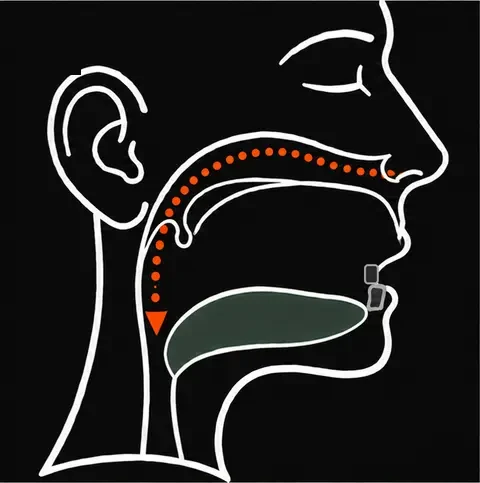
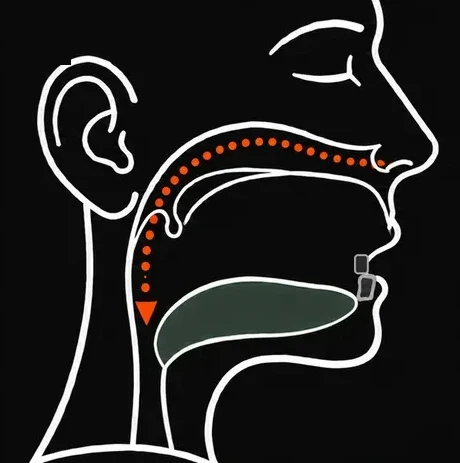
Trim edge lines from airway drawings
Claude-Session: https://claude.ai/code/session_01Hr1Vhy7JFwF6pmfEZcUMyD

Changed region(s): [[0.0, 0.0, 1.0, 1.0], [0.9739, 0.0, 1.0, 0.0302]]

diff --git a/site/index.html b/site/index.html
@@ -257,9 +257,9 @@ footer p{max-width:60em}
 
     <div class="moves">
       <figure><div class="pic" style="background:#101216"><img src="img/hinge.webp" width="411" height="440" loading="lazy" alt="Line drawing of a bearded man in his fifties hinging at the hips with dumbbells, back flat."></div><figcaption>Dumbbell deadlift, braced</figcaption></figure>
-      <figure><div class="pic" style="background:#0C0C0C"><img src="img/tongue.webp" width="480" height="483" loading="lazy" alt="Side-view drawing of the mouth and throat with the tongue pressed to the roof of the mouth."></div><figcaption>Tongue press</figcaption></figure>
+      <figure><div class="pic" style="background:#0C0C0C"><img src="img/tongue.webp" width="460" height="463" loading="lazy" alt="Side-view drawing of the mouth and throat with the tongue pressed to the roof of the mouth."></div><figcaption>Tongue press</figcaption></figure>
       <figure><div class="pic" style="background:#111317"><img src="img/row.webp" width="432" height="440" loading="lazy" alt="Line drawing of the same man doing a one-arm dumbbell row with a hand and knee on a bench."></div><figcaption>One-arm row, chin tucked</figcaption></figure>
-      <figure><div class="pic" style="background:#0A0A0A"><img src="img/breath.webp" width="480" height="483" loading="lazy" alt="Side-view drawing of the airway with a dotted arrow showing air moving through the nose and down the throat."></div><figcaption>Breathing work</figcaption></figure>
+      <figure><div class="pic" style="background:#0A0A0A"><img src="img/breath.webp" width="460" height="463" loading="lazy" alt="Side-view drawing of the airway with a dotted arrow showing air moving through the nose and down the throat."></div><figcaption>Breathing work</figcaption></figure>
       <figure><div class="pic" style="background:#0E0F15"><img src="img/carry.webp" width="398" height="440" loading="lazy" alt="Line drawing of the same man standing tall holding a dumbbell in each hand."></div><figcaption>Loaded carry</figcaption></figure>
     </div>
   </div>
